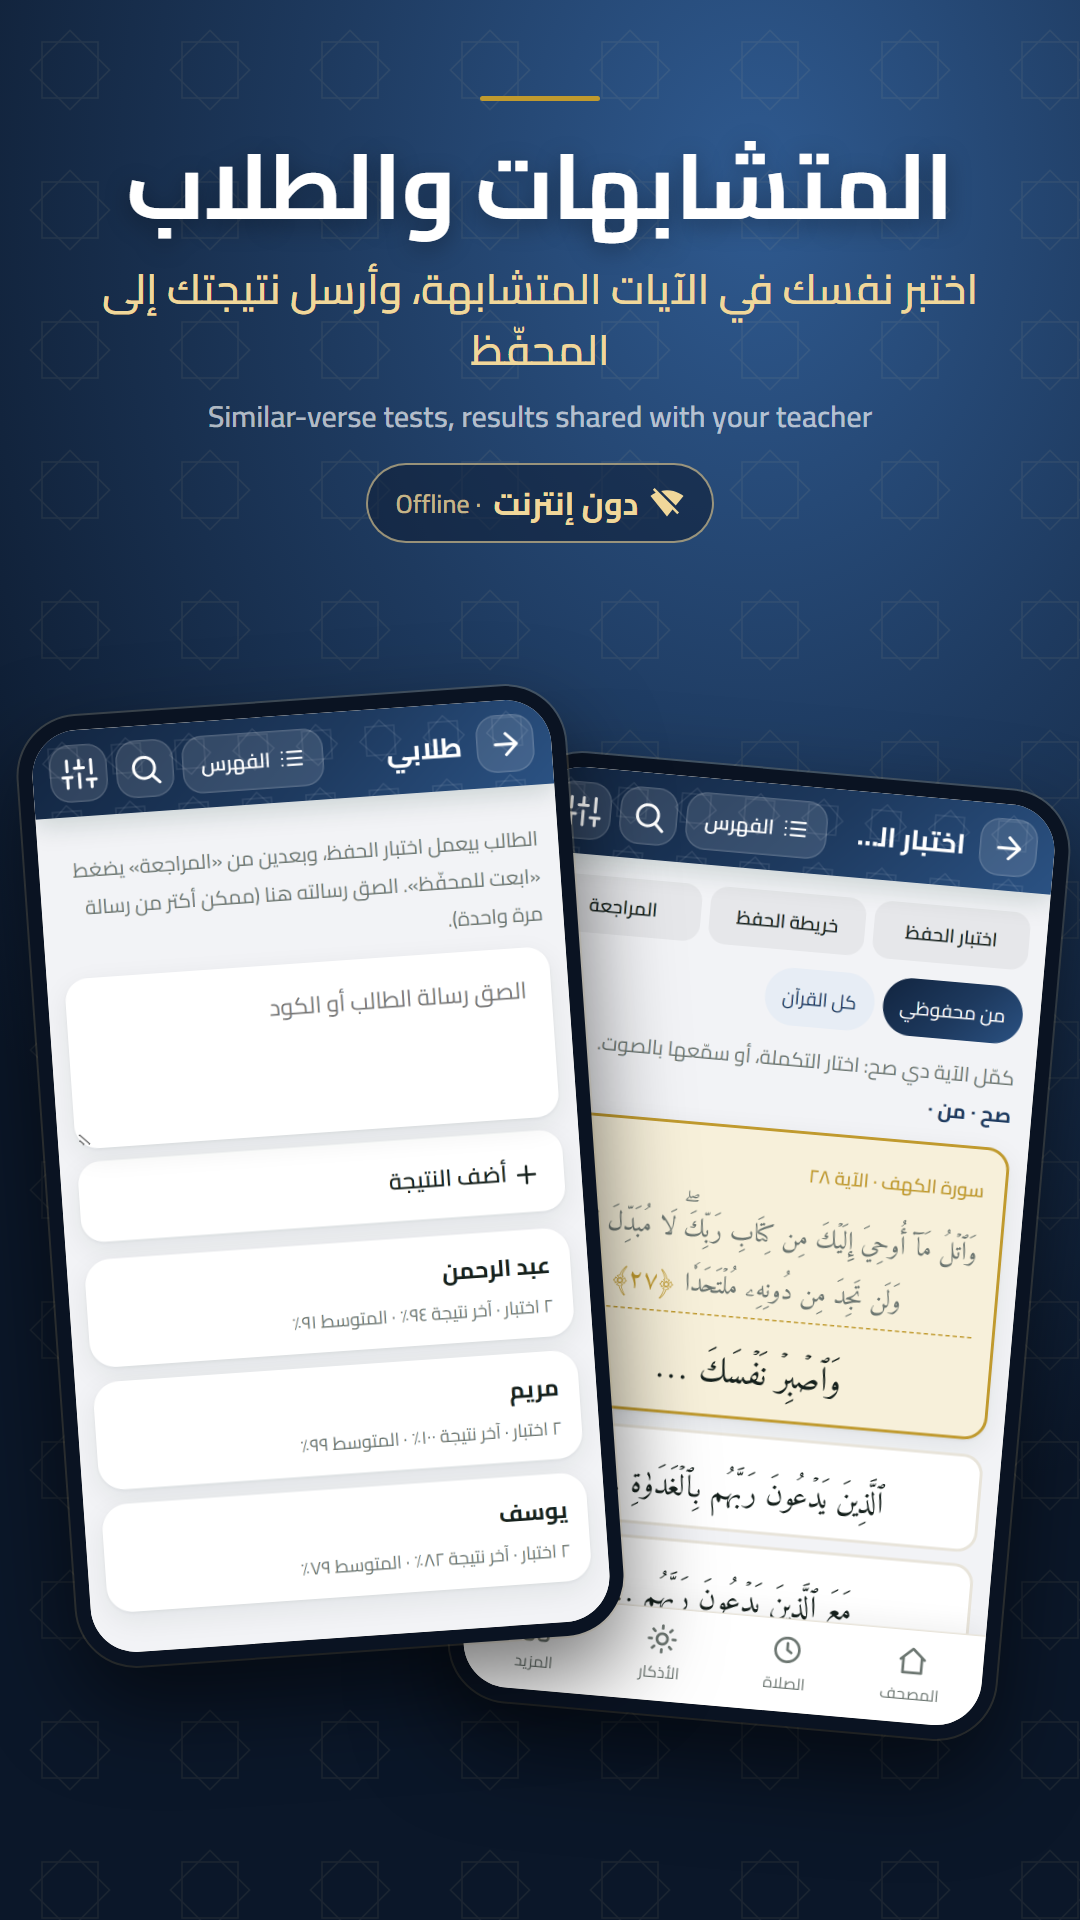
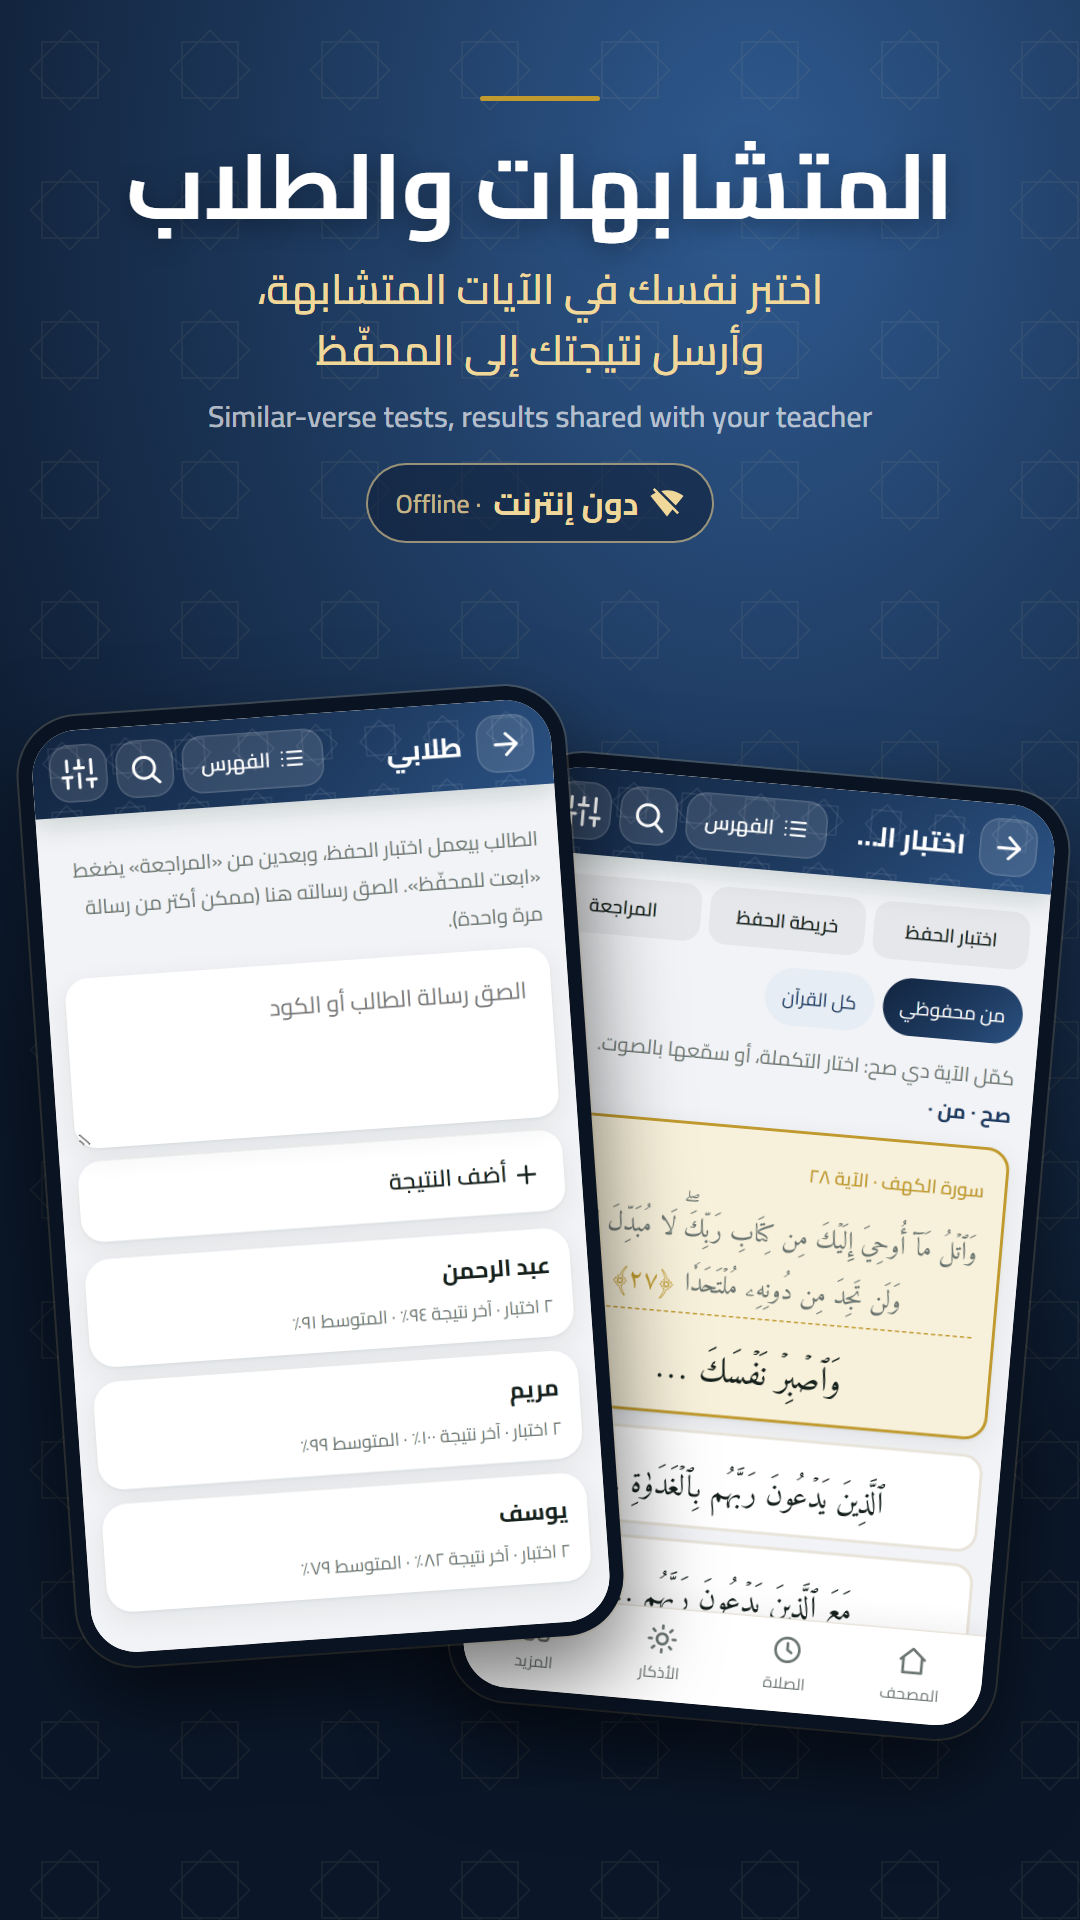
Play screenshots: caption wording (follows word by word, تَظهر, hifz map reminds, stats in words and letters)

diff --git a/store/video/make-screens.js b/store/video/make-screens.js
@@ -13,14 +13,14 @@ const STA_H = fs.readFileSync(path.join(CL, 'stats', 'full.png')).readUInt32BE(2
 const P = (img, z = 1, fx = 180, fy = 320, ch = 640, mark = null) => ({ img, z, fx, fy, ch, mark });
 const shot = n => path.join(SH, n + '.png');
 const SCREENS = [
-  ['recite', 'سمِّع بصوتك', 'ويتابعك التطبيق كلمةً كلمة على صفحة المصحف', 'Recite aloud – the app follows you word by word',
+  ['recite', 'سمِّع بصوتك', 'التطبيق يستطيع متابعتك كلمةً بكلمة على صفحة المصحف', 'Recite aloud – the app follows you word by word',
     [P(path.join(CL, 'live', LIVE.states[13].f), 1.6, 180, lw[1] + 125)], true],
-  ['review', 'مراجعة السورة', 'تُخفى الآيات وتظهر أثناء القراءة، ويُعلَّم الخطأ بالأحمر', 'Covered verses open as you recite; slips are marked in red',
+  ['review', 'مراجعة السورة', 'تُخفى الآيات وتَظهر أثناء القراءة، ويُعلَّم الخطأ بالأحمر', 'Covered verses open as you recite; slips are marked in red',
     [P(path.join(CL, 'review', REV.states[REV.states.length - 1].f), 1.5, 180, rb[1] + 150, 640, rb)], true],
   ['talqin', 'التلقين', 'استمع إلى الآية من القارئ وردّدها حتى تثبت', 'Talqin: listen, repeat, memorise', [P(shot('talqin'))]],
-  ['hifzmap', 'خريطة الحفظ', 'كل صفحة حفظتها بلونها، والمراجعة المتباعدة تخبرك بما تراجعه اليوم', 'Your hifz map and spaced review', [P(shot('hifzmap')), P(shot('review'))]],
+  ['hifzmap', 'خريطة الحفظ', 'تحفظ كل صفحة حفظتها، والمراجعة المتباعدة تذكّرك بما تراجعه اليوم', 'Every page you memorise is kept; spaced review reminds you what to revise today', [P(shot('hifzmap')), P(shot('review'))]],
   ['mutash', 'المتشابهات والطلاب', 'اختبر نفسك في الآيات المتشابهة، وأرسل نتيجتك إلى المحفّظ', 'Similar-verse tests, results shared with your teacher', [P(shot('mutash')), P(shot('students'))]],
-  ['stats', 'إحصائياتك', 'وردك اليومي، أيام الالتزام، المكافآت، ونسبة الحفظ', 'Your reading, streaks, rewards and hifz progress',
+  ['stats', 'إحصائياتك', 'تسجّل وردك اليومي بعدد الكلمات والحروف، وأيام الالتزام، والمكافآت، ونسبة الحفظ', 'Daily reading counted in words and letters, streaks, rewards and hifz progress',
     [P(path.join(CL, 'stats', 'full.png'), 1, 180, 320, STA_H), P(path.join(CL, 'stats', 'full.png'), 1, 180, STA.cards[1].box[1] + 260, STA_H)]],
   ['editions', 'ثلاث طبعات للمصحف', 'الملك فهد · المدينة القديمة · الشمرلي', 'Three printed Mushaf editions', [P(shot('kfold')), P(shot('kfgqpc')), P(shot('shamarly'))]],
   ['more', 'تفسير وتجويد وأذكار', 'ابن كثير · الطبري · القرطبي · السعدي · ختمة · مواقيت الصلاة والقبلة', 'Tafsir, colour tajweed, khatma, adhkar, prayer times & Qibla', [P(shot('tajweed')), P(shot('tafsir')), P(shot('prayer'))]],
@@ -32,7 +32,9 @@ function phone(p, w) {   // screen w px wide, 16:9; camera: show (fx, fy) at the
   const ring = p.mark ? `<div class="ring" style="left:${tx + (p.mark[0] - 1) * k - 6}px;top:${ty + (p.mark[1] - 1) * k - 6}px;width:${(p.mark[2] + 2) * k}px;height:${(p.mark[3] + 2) * k}px"></div>` : '';
   return `<div class="ph"><div class="scr" style="width:${w}px;height:${h}px"><img src="${url(p.img)}" style="left:${tx}px;top:${ty}px;width:${360 * k}px">${ring}</div></div>`;
 }
-const page = ([id, t, sub, en, phones, big]) => {
+const page = ([id, t, sub0, en, phones, big]) => {
+  // keep «كلمةً بكلمة» on one line and the · separators with the word before them
+  const sub = sub0.replace('كلمةً بكلمة', 'كلمةً بكلمة').replace(/ · /g, ' · ');
   const n = phones.length, w = n === 1 ? 800 : n === 2 ? 520 : 430;
   return `<!doctype html><html dir="rtl" lang="ar"><head><meta charset="utf-8"><style>
 @font-face { font-family: Cairo; font-weight: 700; src: url(${url('web/fonts/cairo-700.woff2')}); }
@@ -45,8 +47,8 @@ body { font-family: Cairo, sans-serif; color: #fff; position: relative; backgrou
 .cap { position: absolute; top: 96px; left: 70px; right: 70px; text-align: center; }
 .cap::before { content: ''; display: block; width: 120px; height: 5px; border-radius: 3px; background: #c09a2e; margin: 0 auto 30px; }
 h1 { margin: 0; font: 700 ${big ? 104 : 92}px/1.2 Cairo; text-shadow: 0 6px 24px rgba(0,0,0,.35); }
-.sub { margin: 18px 0 0; font: 600 42px/1.45 Cairo; color: #f0d79a; }
-.en { margin: 14px 0 0; direction: ltr; font: 600 30px/1.4 CairoL, sans-serif; color: rgba(255,255,255,.66); }
+.sub { margin: 18px 0 0; font: 600 42px/1.45 Cairo; color: #f0d79a; text-wrap: balance; }
+.en { margin: 14px 0 0; direction: ltr; font: 600 30px/1.4 CairoL, sans-serif; color: rgba(255,255,255,.66); text-wrap: balance; }
 .off { display: inline-flex; align-items: center; gap: 12px; margin-top: 26px; padding: 8px 28px; border-radius: 999px;
   border: 2px solid rgba(240,215,154,.6); background: rgba(15,30,53,.55); color: #f0d79a; font: 700 32px Cairo; }
 .off svg { width: 34px; height: 34px; fill: #f0d79a; } .off .e { font: 600 26px CairoL, sans-serif; opacity: .8; }
